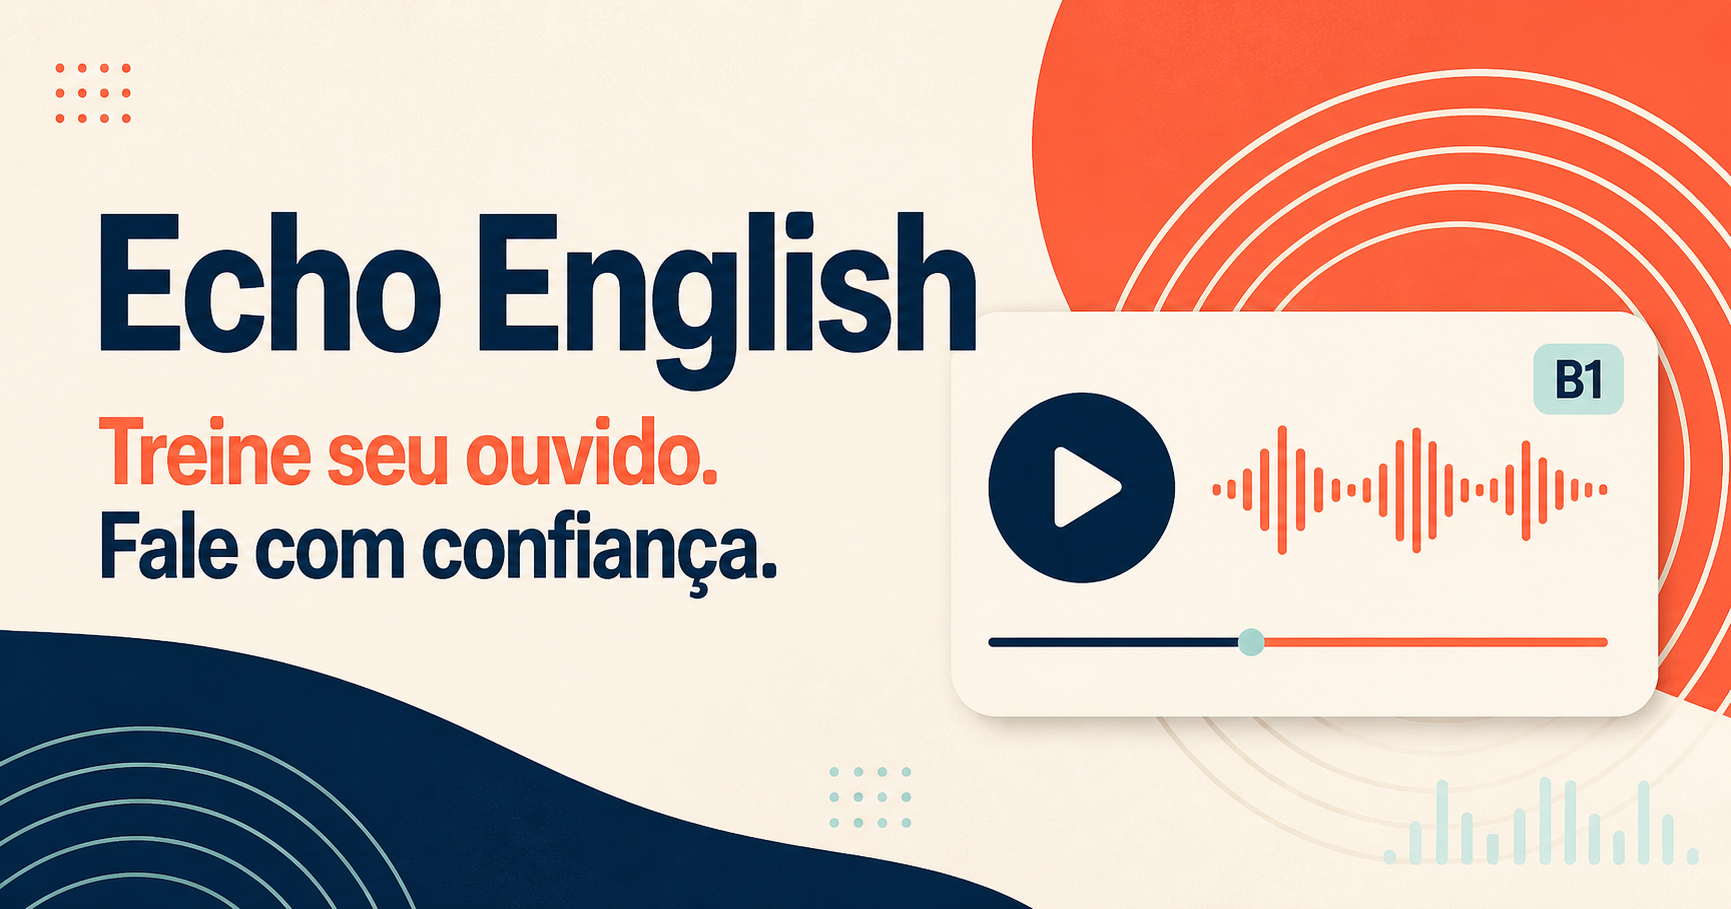
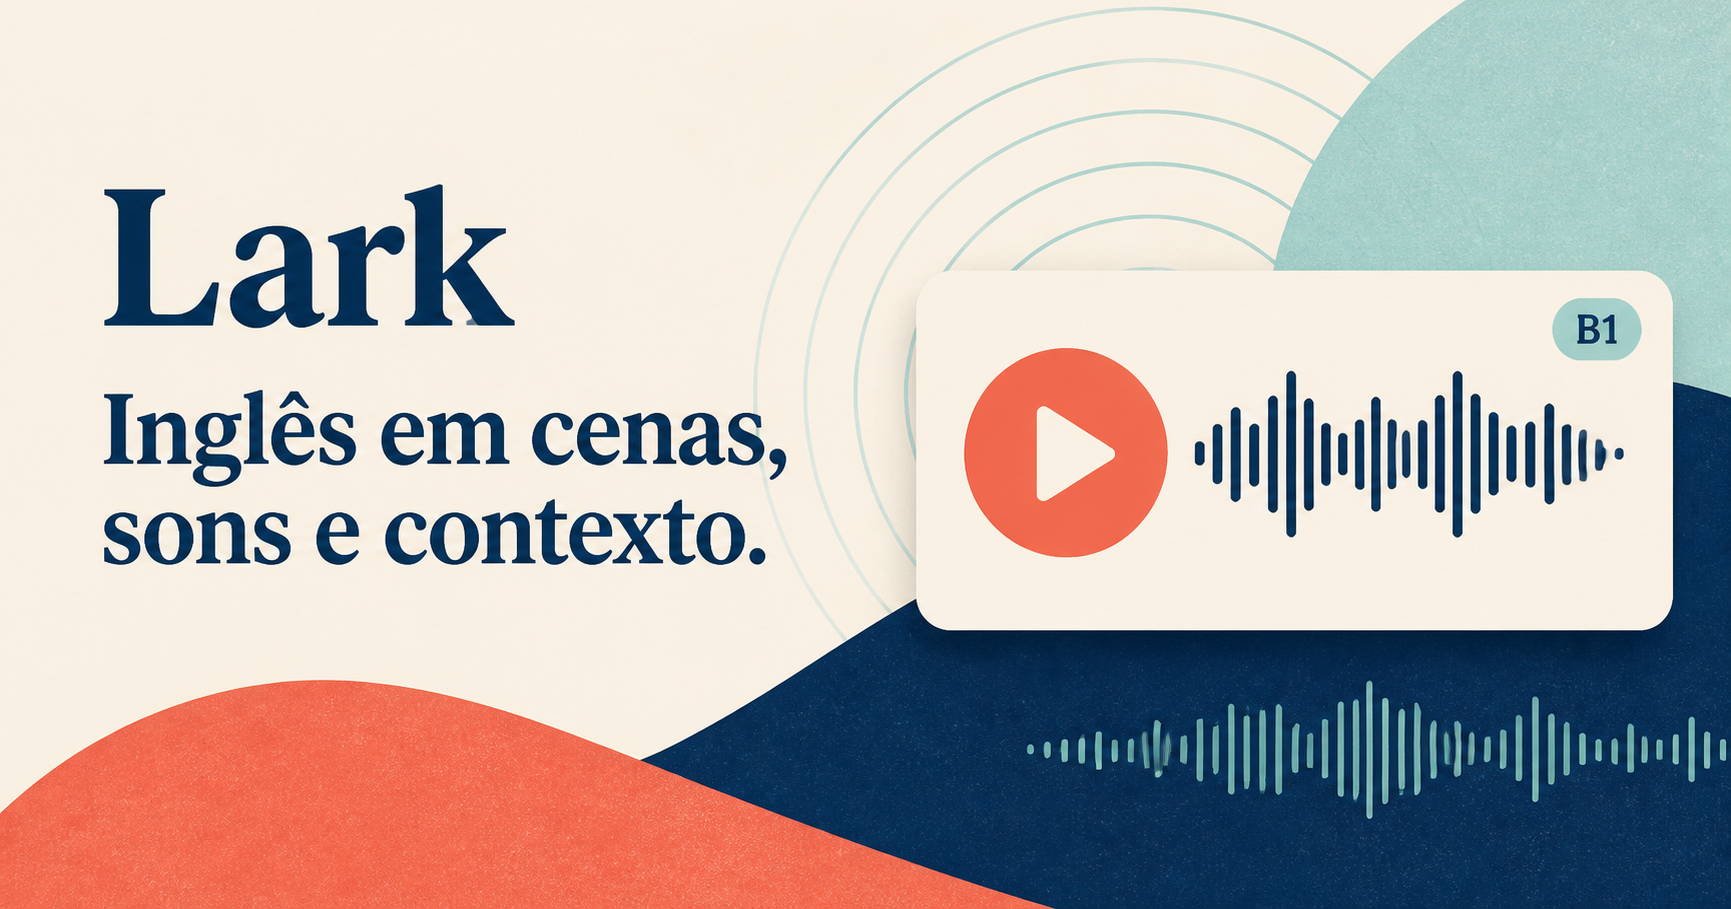
Rename product to Lark and add project documentation

diff --git a/app/page.tsx b/app/page.tsx
@@ -5,7 +5,7 @@ export default function Home() {
   return (
     <main>
       <header className="site-header">
-        <Link className="brand" href="/"><span className="brand-mark">E</span>Echo English</Link>
+        <Link className="brand" href="/"><span className="brand-mark">L</span>Lark</Link>
         <nav aria-label="Navegação principal"><a href="#lessons">Aulas</a><a href="#method">Como funciona</a></nav>
         <a className="button button-dark" href="#lessons">Começar agora</a>
       </header>
@@ -40,7 +40,7 @@ export default function Home() {
 
       <section className="method shell" id="method"><div><span className="kicker">Método simples</span><h2>Ouça. Entenda.<br />Use de verdade.</h2></div><div className="steps"><article><span>01</span><h3>Assista à cena</h3><p>Escute sem legendas e perceba ritmo, tom e contexto.</p></article><article><span>02</span><h3>Aprenda palavras</h3><p>Revise três expressões úteis da situação.</p></article><article><span>03</span><h3>Teste seu ouvido</h3><p>Responda perguntas e confira sua compreensão.</p></article></div></section>
       <section className="cta shell"><div><span className="eyebrow">Pronto para começar?</span><h2>Seu inglês ganha vida<br />quando você escuta.</h2></div><a className="button button-light" href="#lessons">Ver as aulas ↗</a></section>
-      <footer className="footer shell"><Link className="brand" href="/"><span className="brand-mark">E</span>Echo English</Link><p>Um mock-up de aprendizagem por escuta.</p><span>© 2026 Echo English</span></footer>
+      <footer className="footer shell"><Link className="brand" href="/"><span className="brand-mark">L</span>Lark</Link><p>Inglês em cenas, sons e contexto.</p><span>© 2026 Lark</span></footer>
     </main>
   );
 }

diff --git a/app/layout.tsx b/app/layout.tsx
@@ -3,22 +3,15 @@ import { Geist, Geist_Mono } from "next/font/google";
 import { headers } from "next/headers";
 import "./globals.css";
 
-const geistSans = Geist({
-  variable: "--font-geist-sans",
-  subsets: ["latin"],
-});
-
-const geistMono = Geist_Mono({
-  variable: "--font-geist-mono",
-  subsets: ["latin"],
-});
+const geistSans = Geist({ variable: "--font-geist-sans", subsets: ["latin"] });
+const geistMono = Geist_Mono({ variable: "--font-geist-mono", subsets: ["latin"] });
 
 export async function generateMetadata(): Promise<Metadata> {
   const requestHeaders = await headers();
   const host = requestHeaders.get("x-forwarded-host") ?? requestHeaders.get("host") ?? "localhost:3000";
   const protocol = requestHeaders.get("x-forwarded-proto") ?? (host.includes("localhost") ? "http" : "https");
   const socialImage = `${protocol}://${host}/og.png`;
-  const title = "Echo English — Inglês que você realmente escuta";
+  const title = "Lark — Inglês em cenas, sons e contexto";
   const description = "Aulas rápidas de inglês com vídeos, vocabulário e exercícios de compreensão.";
   return {
     title,
@@ -29,18 +22,6 @@ export async function generateMetadata(): Promise<Metadata> {
   };
 }
 
-export default function RootLayout({
-  children,
-}: Readonly<{
-  children: React.ReactNode;
-}>) {
-  return (
-    <html lang="pt-BR">
-      <body
-        className={`${geistSans.variable} ${geistMono.variable} antialiased`}
-      >
-        {children}
-      </body>
-    </html>
-  );
+export default function RootLayout({ children }: Readonly<{ children: React.ReactNode }>) {
+  return <html lang="pt-BR"><body className={`${geistSans.variable} ${geistMono.variable} antialiased`}>{children}</body></html>;
 }

diff --git a/app/lesson/[slug]/page.tsx b/app/lesson/[slug]/page.tsx
@@ -10,7 +10,7 @@ export default async function LessonPage({ params }: { params: Promise<{ slug: s
 
   return <main className="lesson-page">
     <header className="site-header lesson-header">
-      <Link className="brand" href="/"><span className="brand-mark">E</span>Echo English</Link>
+      <Link className="brand" href="/"><span className="brand-mark">L</span>Lark</Link>
       <Link className="back-link" href="/#lessons">← Todas as aulas</Link>
     </header>
 
@@ -38,6 +38,6 @@ export default async function LessonPage({ params }: { params: Promise<{ slug: s
     </section>
 
     <section className="next-lesson shell"><span>Continue aprendendo</span><Link href="/#lessons">Escolher outra aula <b>→</b></Link></section>
-    <footer className="footer shell"><Link className="brand" href="/"><span className="brand-mark">E</span>Echo English</Link><p>Um mock-up de aprendizagem por escuta.</p><span>© 2026 Echo English</span></footer>
+    <footer className="footer shell"><Link className="brand" href="/"><span className="brand-mark">L</span>Lark</Link><p>Inglês em cenas, sons e contexto.</p><span>© 2026 Lark</span></footer>
   </main>;
 }

diff --git a/docs/produto.md b/docs/produto.md
@@ -1,0 +1,27 @@
+# Lark
+
+## Visão
+
+Lark é uma plataforma de aprendizagem de inglês por compreensão auditiva. O aluno assiste a cenas curtas, identifica o contexto, aprende expressões úteis e confirma o entendimento com exercícios breves.
+
+## Proposta de valor
+
+Transformar conteúdo em inglês real em prática ativa e acessível: assistir, repetir, interpretar e usar.
+
+## Público inicial
+
+- Falantes de português entre os níveis A2 e B1.
+- Pessoas que entendem gramática básica, mas têm dificuldade com inglês falado.
+- Alunos que preferem lições objetivas, de 5 a 10 minutos.
+
+## Escopo da primeira versão
+
+- Catálogo de aulas.
+- Página de aula com vídeo, instruções, três palavras-chave e quiz.
+- Experiência responsiva para celular e desktop.
+
+## Fora de escopo por enquanto
+
+- Cadastro, login e pagamento.
+- Registro persistente de progresso.
+- Painel administrativo para criação de conteúdo.

diff --git a/docs/casos-de-uso/UC-001-estudar-uma-aula.md b/docs/casos-de-uso/UC-001-estudar-uma-aula.md
@@ -1,0 +1,32 @@
+# UC-001 — Estudar uma aula
+
+## Objetivo
+
+Permitir que um visitante pratique compreensão auditiva em uma lição curta.
+
+## Ator
+
+Visitante não autenticado.
+
+## Fluxo principal
+
+1. O visitante abre o catálogo de aulas.
+2. Seleciona uma aula pela categoria, título ou nível.
+3. Assiste ao vídeo da aula.
+4. Lê as instruções de prática.
+5. Estuda três palavras ou expressões contextualizadas.
+6. Responde às três perguntas de compreensão.
+7. Consulta o gabarito quando desejar.
+
+## Critérios de aceitação
+
+- A página exibe vídeo, instruções, vocabulário e quiz.
+- O visitante consegue selecionar uma alternativa por pergunta.
+- O gabarito permanece oculto até ser solicitado.
+- A experiência funciona em celular e desktop.
+
+## Fora de escopo
+
+- Salvar respostas ou progresso.
+- Pontuação persistente.
+- Perfil de usuário.

diff --git a/docs/arquitetura.md b/docs/arquitetura.md
@@ -1,0 +1,20 @@
+# Arquitetura inicial
+
+## Aplicação
+
+- React e TypeScript com App Router.
+- CSS próprio em `app/globals.css`.
+- Rotas de aulas em `app/lesson/[slug]`.
+- Conteúdo de demonstração em `app/lessons.ts`.
+
+## Hospedagem
+
+- Sites para publicar a aplicação.
+- Sem banco de dados ou autenticação no primeiro lançamento.
+
+## Convenções de trabalho
+
+- Uma funcionalidade por branch.
+- Cada alteração começa por um caso de uso e critérios de aceitação.
+- Revisar o diff antes de publicar.
+- O Codex no VS Code deve ler este diretório antes de implementar novas funcionalidades.

diff --git a/docs/backlog.md b/docs/backlog.md
@@ -1,0 +1,16 @@
+# Backlog inicial
+
+## Próximas decisões de produto
+
+- [ ] Definir a estrutura editorial de uma aula.
+- [ ] Definir níveis, categorias e critérios de seleção de conteúdo.
+- [ ] Especificar como o quiz deve avaliar e apresentar feedback.
+- [ ] Avaliar conta e progresso do aluno.
+- [ ] Avaliar painel para criação de aulas.
+
+## Melhorias de experiência
+
+- [ ] Ajustar o layout a partir de uma lista de mudanças priorizadas.
+- [ ] Adicionar navegação entre aulas.
+- [ ] Adicionar transcrição opcional.
+- [ ] Adicionar estados de resposta e feedback no quiz.

diff --git a/docs/decisoes.md b/docs/decisoes.md
@@ -1,0 +1,13 @@
+# Decisões do projeto
+
+## ADR-001 — Nome do produto
+
+- **Decisão:** Lark.
+- **Motivo:** palavra inglesa curta, fácil de pronunciar e associada ao canto de uma ave; comunica escuta, voz e aprendizagem natural.
+- **Data:** 2026-08-13.
+
+## ADR-002 — Escopo técnico inicial
+
+- **Decisão:** site sem login ou banco de dados na primeira versão.
+- **Motivo:** validar o formato de aula e a experiência de aprendizagem antes de introduzir complexidade operacional.
+- **Data:** 2026-08-13.
